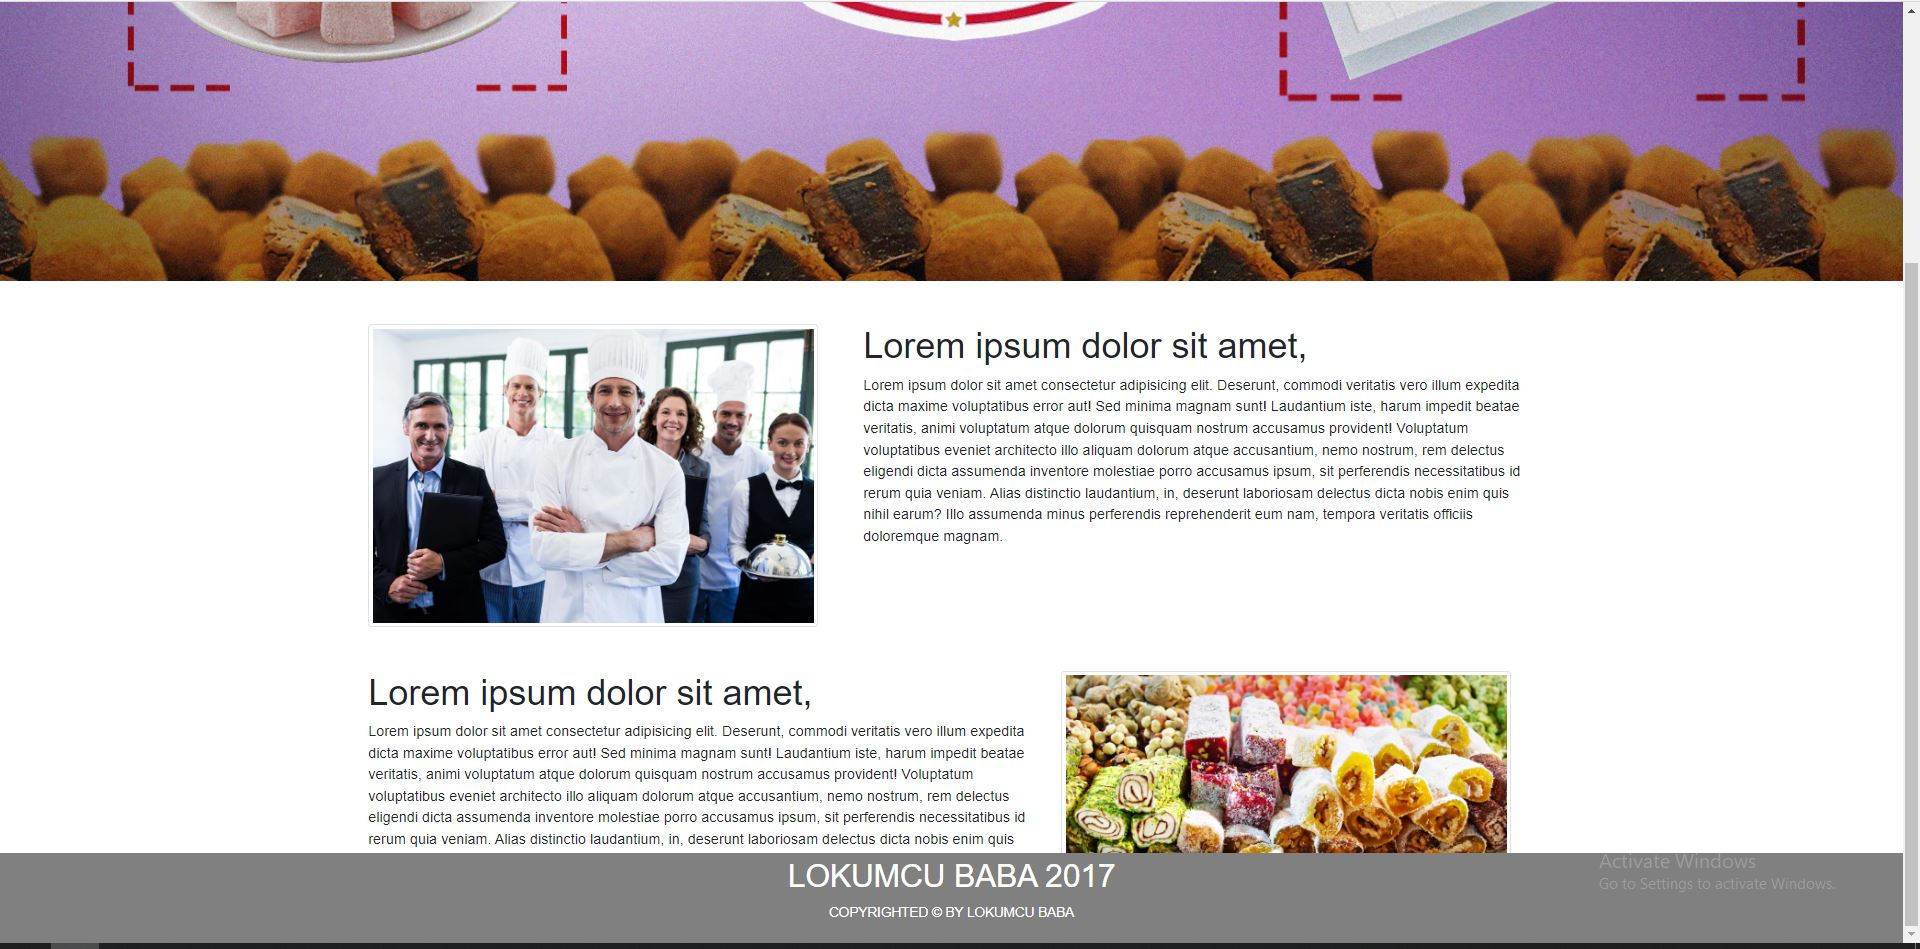
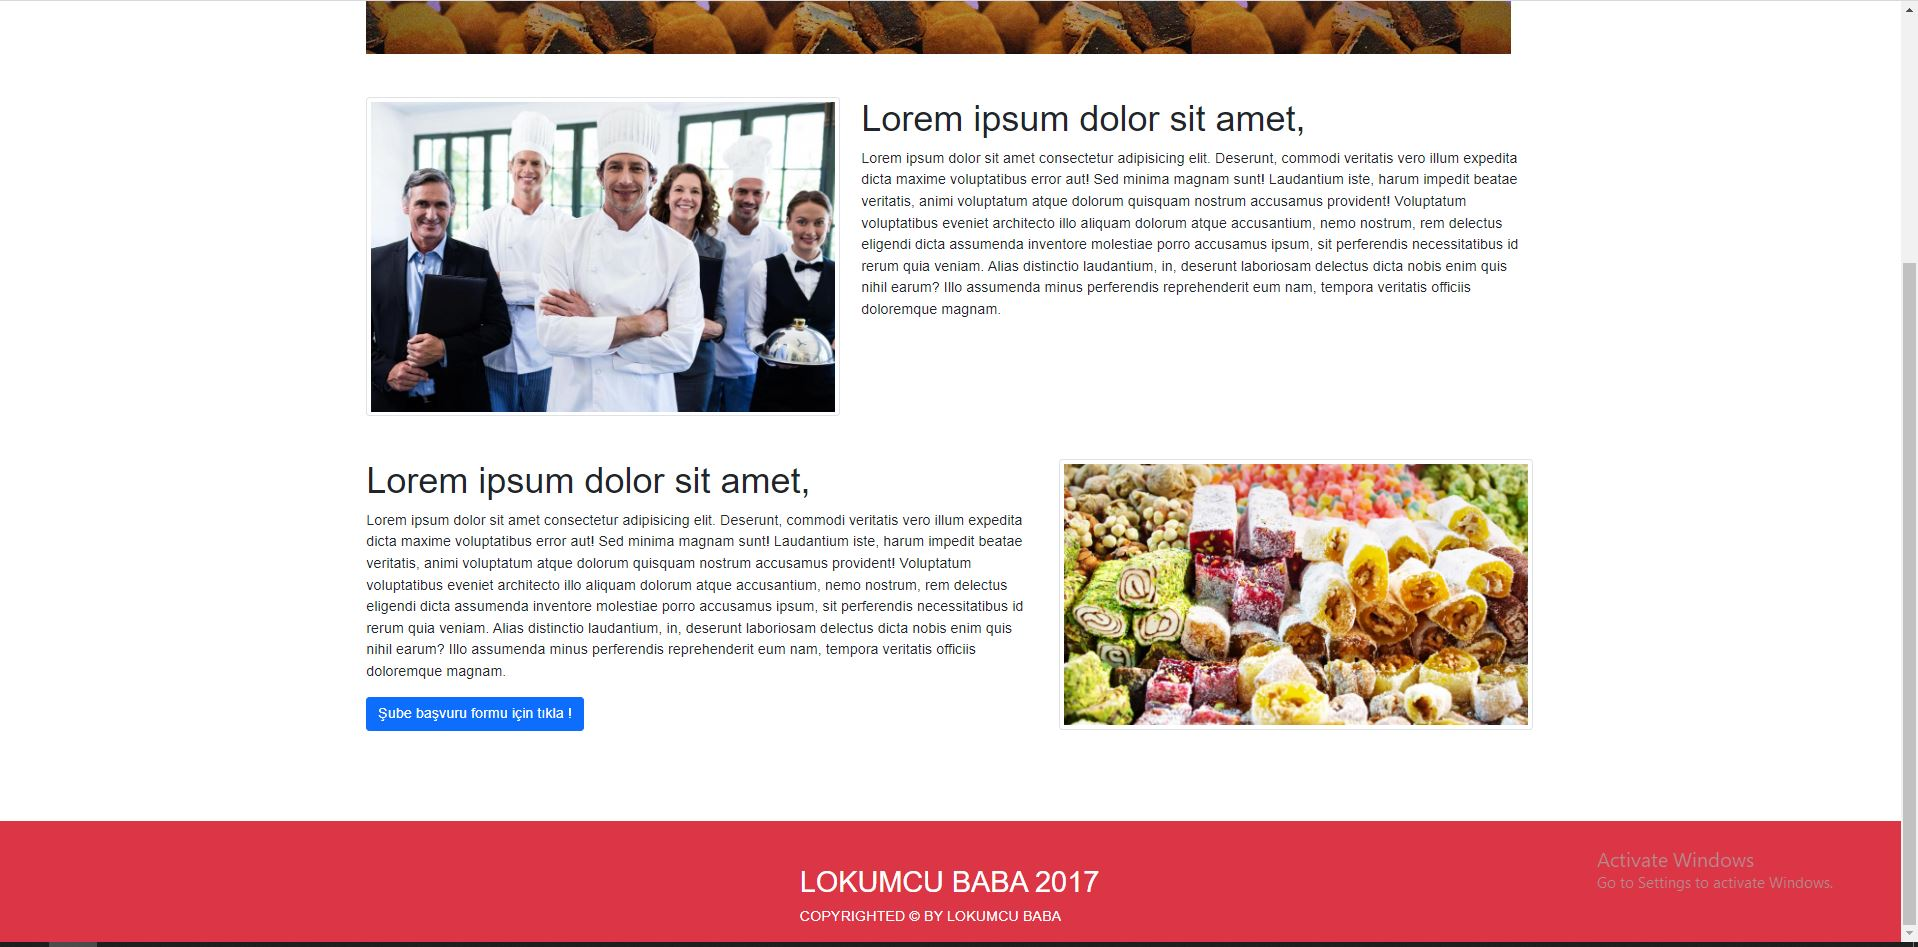
Add files via upload

diff --git a/src/components/header/Header.jsx b/src/components/header/Header.jsx
@@ -5,13 +5,15 @@ const Header = () => {
   return (
     <>
       <div className='container'>
+        <div className='row col-12'>
+          <img src='https://i.hizliresim.com/8ddy7q8.jpg' alt='' />
+        </div>
         <div className='row mt-5'>
           <div className='col-5'>
             <img
               src='https://www.imagelato.com/images/article-cover-restaurant-staff-list-e9d70f7c-1024w.jpg'
               alt=''
-              width='100'
-              className='img-fluid img-thumbnail'
+              className='img-fluid newImg img-thumbnail'
             />
           </div>
           <div className='col-7'>
@@ -32,7 +34,7 @@ const Header = () => {
             </p>
           </div>
         </div>
-        <div className='row mt-5'>
+        <div className='row mt-5 '>
           <div className='col-7'>
             <h1>Lorem ipsum dolor sit amet,</h1>
             <p>
@@ -54,7 +56,7 @@ const Header = () => {
             </Button>{' '}
           </div>
 
-          <div className='col-5 mb-5'>
+          <div className='col-5'>
             <img
               src='https://www.mevlanakuruyemis.com/wp-content/uploads/2020/12/s-78517b7af25b973e546e60ee58369f0e8ec0edf3.jpg'
               alt=''

diff --git a/src/App.js b/src/App.js
@@ -1,4 +1,5 @@
 import {BrowserRouter, Routes, Route} from 'react-router-dom';
+import Footer from './components/footer/Footer';
 import Adminapplication from './pages/adminApplication/Adminapplication';
 import Application from './pages/applications/Application';
 import Home from './pages/home/Home';
@@ -6,14 +7,19 @@ import Login from './pages/login/Login';
 
 function App() {
   return (
-    <BrowserRouter>
-      <Routes>
-        <Route path='/' element={<Home />} />
-        <Route path='/application' element={<Application />} />
-        <Route path='/login' element={<Login />} />
-        <Route path='/admin/application' element={<Adminapplication />} />
-      </Routes>
-    </BrowserRouter>
+    <div className='page-container'>
+      <div className='content-wrap'>
+        <BrowserRouter>
+          <Routes>
+            <Route path='/' element={<Home />} />
+            <Route path='/application' element={<Application />} />
+            <Route path='/login' element={<Login />} />
+            <Route path='/admin/application' element={<Adminapplication />} />
+          </Routes>
+        </BrowserRouter>
+      </div>
+      <Footer />
+    </div>
   );
 }
 

diff --git a/src/components/footer/footer.css b/src/components/footer/footer.css
@@ -1,25 +1,22 @@
-.footer {
-  position: absolute;
+.main-footer {
+  color: white;
+  background-color: #dc3545;
+  padding-top: 3em;
+  position: relative;
   bottom: 0;
-  left: 0;
   width: 100%;
-  height: 100px; /* Height of the footer */
-  background: gray;
-  margin: 0;
-  padding: 0;
   display: flex;
-  justify-content: center;
   align-items: center;
+  justify-content: center;
+  margin-top: 100px;
+}
+
+.page-container {
+  display: flex;
   flex-direction: column;
+  min-height: 100vh;
 }
 
-.footer h2 {
-  font-weight: 500;
-  color: white;
-  font-size: 35px;
-}
-
-.footer p {
-  font-size: 15px;
-  color: white;
+.content-wrap {
+  flex: 1;
 }

diff --git a/src/components/footer/Footer.jsx b/src/components/footer/Footer.jsx
@@ -2,9 +2,11 @@ import './footer.css';
 
 const Footer = () => {
   return (
-    <div className='footer'>
-      <h2 className='footerCopyright'>LOKUMCU BABA 2017</h2>
-      <p>COPYRIGHTED © BY LOKUMCU BABA</p>
+    <div className='main-footer'>
+      <div className='footerContainer'>
+        <h2 className='footerCopyright'>LOKUMCU BABA 2017</h2>
+        <p>COPYRIGHTED © BY LOKUMCU BABA</p>
+      </div>
     </div>
   );
 };

diff --git a/src/pages/home/Home.jsx b/src/pages/home/Home.jsx
@@ -5,12 +5,11 @@ import Navbar from '../../components/navbar/Navbar';
 
 const Home = () => {
   return (
-    <div>
-      <Navbar />
-
-      <Header />
-
-      <Footer />
+    <div className='home'>
+      <div className='content-wrap'>
+        <Navbar />
+        <Header />
+      </div>
     </div>
   );
 };

diff --git a/src/pages/adminApplication/Adminapplication.jsx b/src/pages/adminApplication/Adminapplication.jsx
@@ -56,9 +56,6 @@ const Adminapplication = () => {
       ) : (
         <h1>YOU NEED TO LOG IN TO SEE THIS PAGE!</h1>
       )}
-      <div className='footeerDiv'>
-        <Footer />
-      </div>
     </div>
   );
 };

diff --git a/src/pages/applications/Application.jsx b/src/pages/applications/Application.jsx
@@ -154,9 +154,6 @@ const Applications = () => {
           Başvur
         </button>
       </div>
-      <div className='footerDiv'>
-        <Footer />
-      </div>
     </div>
   );
 };

diff --git a/src/components/navbar/navbar.css b/src/components/navbar/navbar.css
@@ -2,6 +2,6 @@
   color: gold;
 }
 
-img {
-  width: 500px;
+.adminspn {
+  margin-left: 50px;
 }

diff --git a/README.md b/README.md
@@ -1,11 +1,3 @@
-Bu proje BuludMD Yazılım şirketi için yazılmıştır.
-
-Kullanılan front end teknolojileri : Bootstrap,react.js,CSS,HTML,vanilla JS
-
-Bu projeyi olabildiğince hızlı bitirmek istediğim için mutlaka hatalar olacaktır.Fakat uygulamamı kısaca açıklamam gerekirse,fotoğraflarda gördüğünüz giriş sayfamız açılma sayfamızdır.Eğer "Şube başvuru formu için tıkla!" yazan butona basarsanız fotoğraflarda görebileceğiniz başvuru formu önünüze çıkar.Eğer admin giriş panel butonuna tıklar iseniz admin giriş paneline yönlendirilmiş olursunuz.Buradaki giriş yapma işlemi simüle değil,gerçekten de giriş yapılması gereken bir kullanıcıdır ve veri tabanında kayıtlıdır.Authentication,authorization yapılmıştır.Bunu JSONWEBTOKEN yardımı ile yaptım.Admin paneline giriş yaptıktan sonra sadece adminlerin görebileceği,gönderilmiş olan başvurular olan,fotoğraflarda adminpanel olarak göreceğiniz sisteme yönlendirilirsiniz.Bir çok ekleme yapılabilir fakat olduğunca sade bırakmak istedim.
-
-Son guncellemede admin panelde ufak bi degisiklik yaptim ve admin var ise sag kosede hosgeldiniz olarak kullanici adi yaziyor ve her sayfaya footer eklendi.
-
 # Getting Started with Create React App
 
 This project was bootstrapped with [Create React App](https://github.com/facebook/create-react-app).
